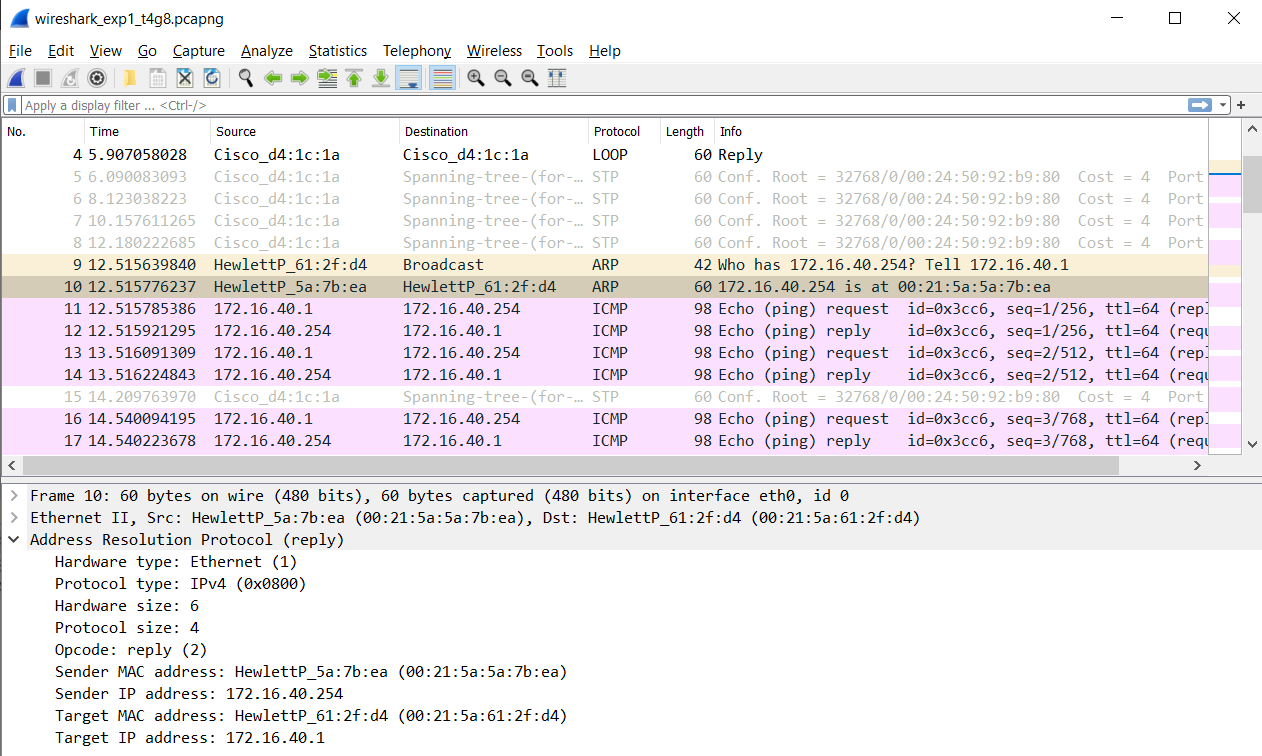
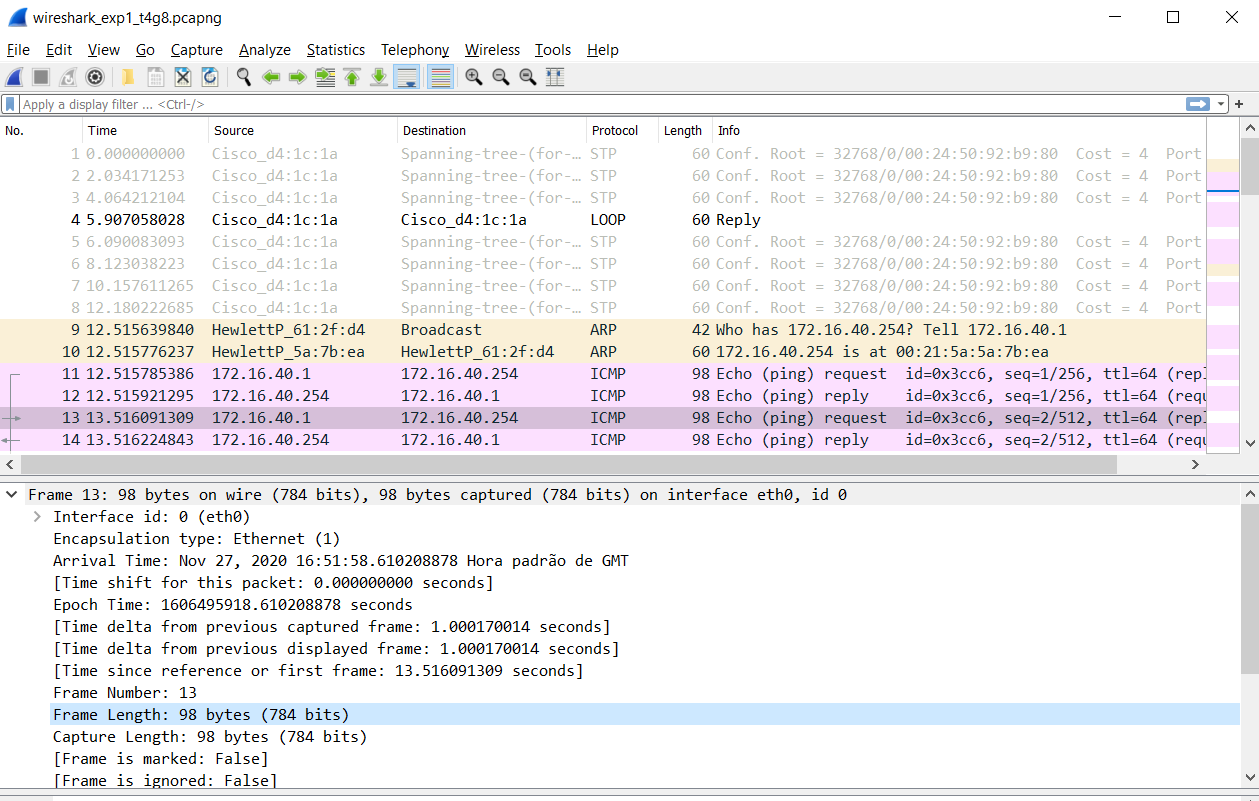
exp1 update

diff --git a/TP2/docs/Experiência1.md b/TP2/docs/Experiência1.md
@@ -8,6 +8,8 @@ O ART é a abreviatura de Address Resolution Protocol e trata-se de um protocolo
 
 2. Quais são os endereços MAC e IP dos pacotes ARB?
 
+![Exp1_0](https://raw.githubusercontent.com/MechJM/trabalhoRCOM/master/TP2/docs/logs/exp1_1.png?token=AIVHWXE5XUXUQ4HR3YCDNDK72JCFG)
+
 3. Quais os pacotes gerados pelo comando ping?
 
 Os pacotes gerados pelo comando ping são em primeira instância pacotes ARP, de maneira a obter os endereços MAC e de seguida pacotes ICMP, Internet Control Message Protocol.
@@ -35,8 +37,18 @@ Endereço IP da origem do pacote (TUX44):
 Endereço IP do destino do pacote (TUX43):
 172.16.40.1
 
-![Exp1_2](https://github.com/MechJM/trabalhoRCOM/tree/master/TP2/docs/logs/exp1_2.png)
+![Exp1_2](https://github.com/MechJM/trabalhoRCOM/blob/master/TP2/docs/logs/exp1_2.png?raw=true)
 
 5. Como saber se a trama recetor Ethernet é ARP, IP ou ICMP?
 
-Se o header da trama for 0x0800, significa que é uma trama IP
+Se o Ethernet header de um pacote for 0x0800, significa que o tipo de trama é IP. Se o IP header for igual a 1, o protocolo é ICMP. Se o IP header tiver o valor 0x0806, significa que o tipo de trama é ARP. Isto pode ser consultado nos logs do wireshark.
+
+6. Como saber o comprimento de uma trama recetora?
+
+Podemos inspecionar a trama recetona no wireshark e determinar o seu comprimento.
+
+![Exp1_3](https://github.com/MechJM/trabalhoRCOM/blob/master/TP2/docs/logs/exp1_2.png?raw=true)
+
+7. O que é a interface loopback e porque é importante?
+
+A interface loopback é uma interface virtual da rede que permite um computador receber respostas a perguntas que enviou a si mesmo. É importante para verificar se uma rede foi configurada corretamente.
